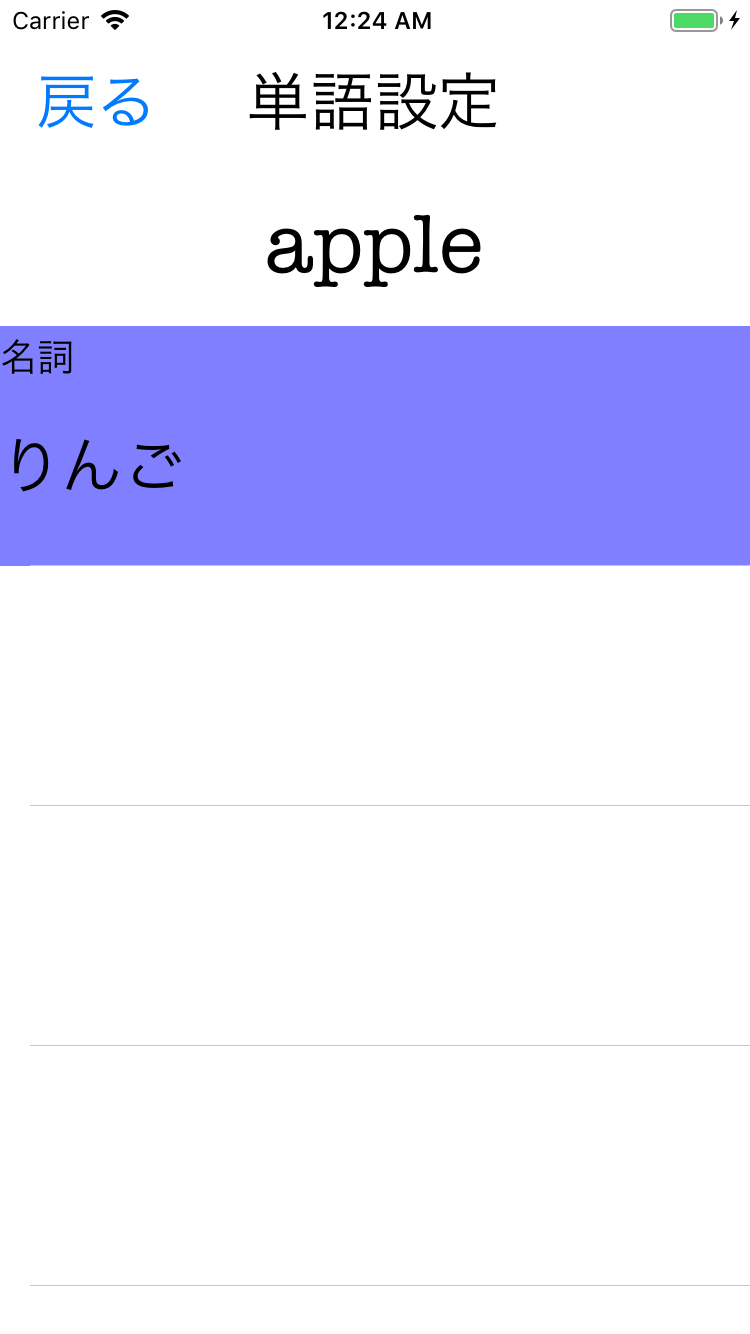
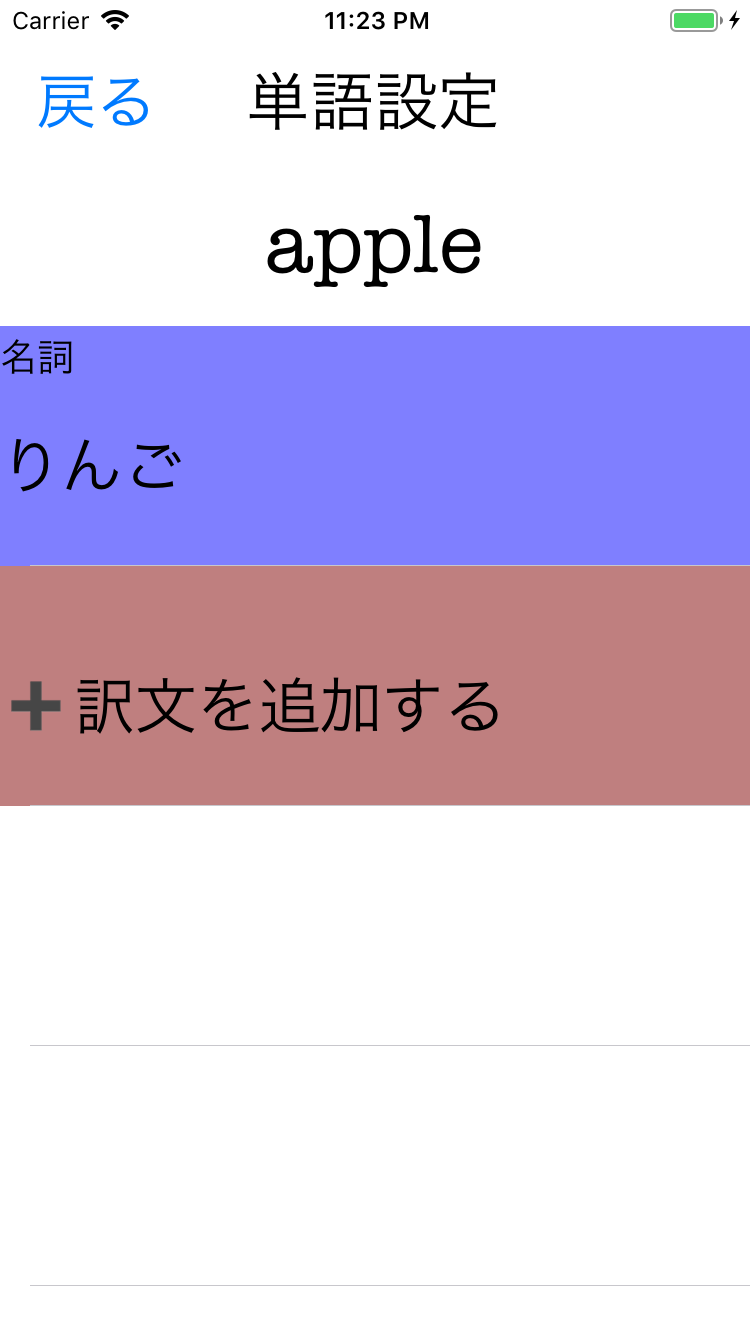
単語設定画面の下に「訳文を追加」ボタンを置いただけ

Changed region(s): [[0.0, 0.3996, 1.0, 0.6147], [0.4293, 0.0, 0.5827, 0.0307]]

diff --git a/EnglishWords/EnglishWords/ConfigureWordViewController.swift b/EnglishWords/EnglishWords/ConfigureWordViewController.swift
@@ -53,7 +53,7 @@ class ConfigureWordViewController: UIViewController, UITableViewDelegate, UITabl
     //Table Viewのセルの数を指定
     func tableView(_ table: UITableView,
                    numberOfRowsInSection section: Int) -> Int {
-        return worddatalist.count
+        return worddatalist.count + 1
     }
     
     //各セルの要素を設定する
@@ -63,15 +63,26 @@ class ConfigureWordViewController: UIViewController, UITableViewDelegate, UITabl
         // tableCell の ID で UITableViewCell のインスタンスを生成
         let cell = table.dequeueReusableCell(withIdentifier: "tablecell",
                                                  for: indexPath)
-        // Tag番号  で UILabel インスタンスの生成
-        let oneworddata = worddatalist[indexPath.row]
-        let partofspeech = cell.viewWithTag(1) as! UILabel
-        partofspeech.numberOfLines = 0
-        partofspeech.text = oneworddata.partofspeech?.partsOfSpeechName
-        let mean = cell.viewWithTag(2) as! UILabel
-        mean.numberOfLines = 0
-        mean.text = oneworddata.mean
-        cell.backgroundColor = UIColor(red: 0.0, green: 0.0, blue: 1.0, alpha: 0.5)
+        if indexPath.row < worddatalist.count {
+            // Tag番号  で UILabel インスタンスの生成
+            let oneworddata = worddatalist[indexPath.row]
+            let partofspeech = cell.viewWithTag(1) as! UILabel
+            partofspeech.numberOfLines = 0
+            partofspeech.text = oneworddata.partofspeech?.partsOfSpeechName
+            let mean = cell.viewWithTag(2) as! UILabel
+            mean.numberOfLines = 0
+            mean.text = oneworddata.mean
+            cell.backgroundColor = UIColor(red: 0.0, green: 0.0, blue: 1.0, alpha: 0.5)
+        } else {
+            let blank = cell.viewWithTag(1) as! UILabel
+            blank.numberOfLines = 0
+            blank.text = ""
+            
+            let mean = cell.viewWithTag(2) as! UILabel
+            mean.numberOfLines = 0
+            mean.text = "➕訳文を追加する"
+            cell.backgroundColor = UIColor(red: 0.5, green: 0.0, blue: 0.0, alpha: 0.5)
+        }
         
         return cell
     }
